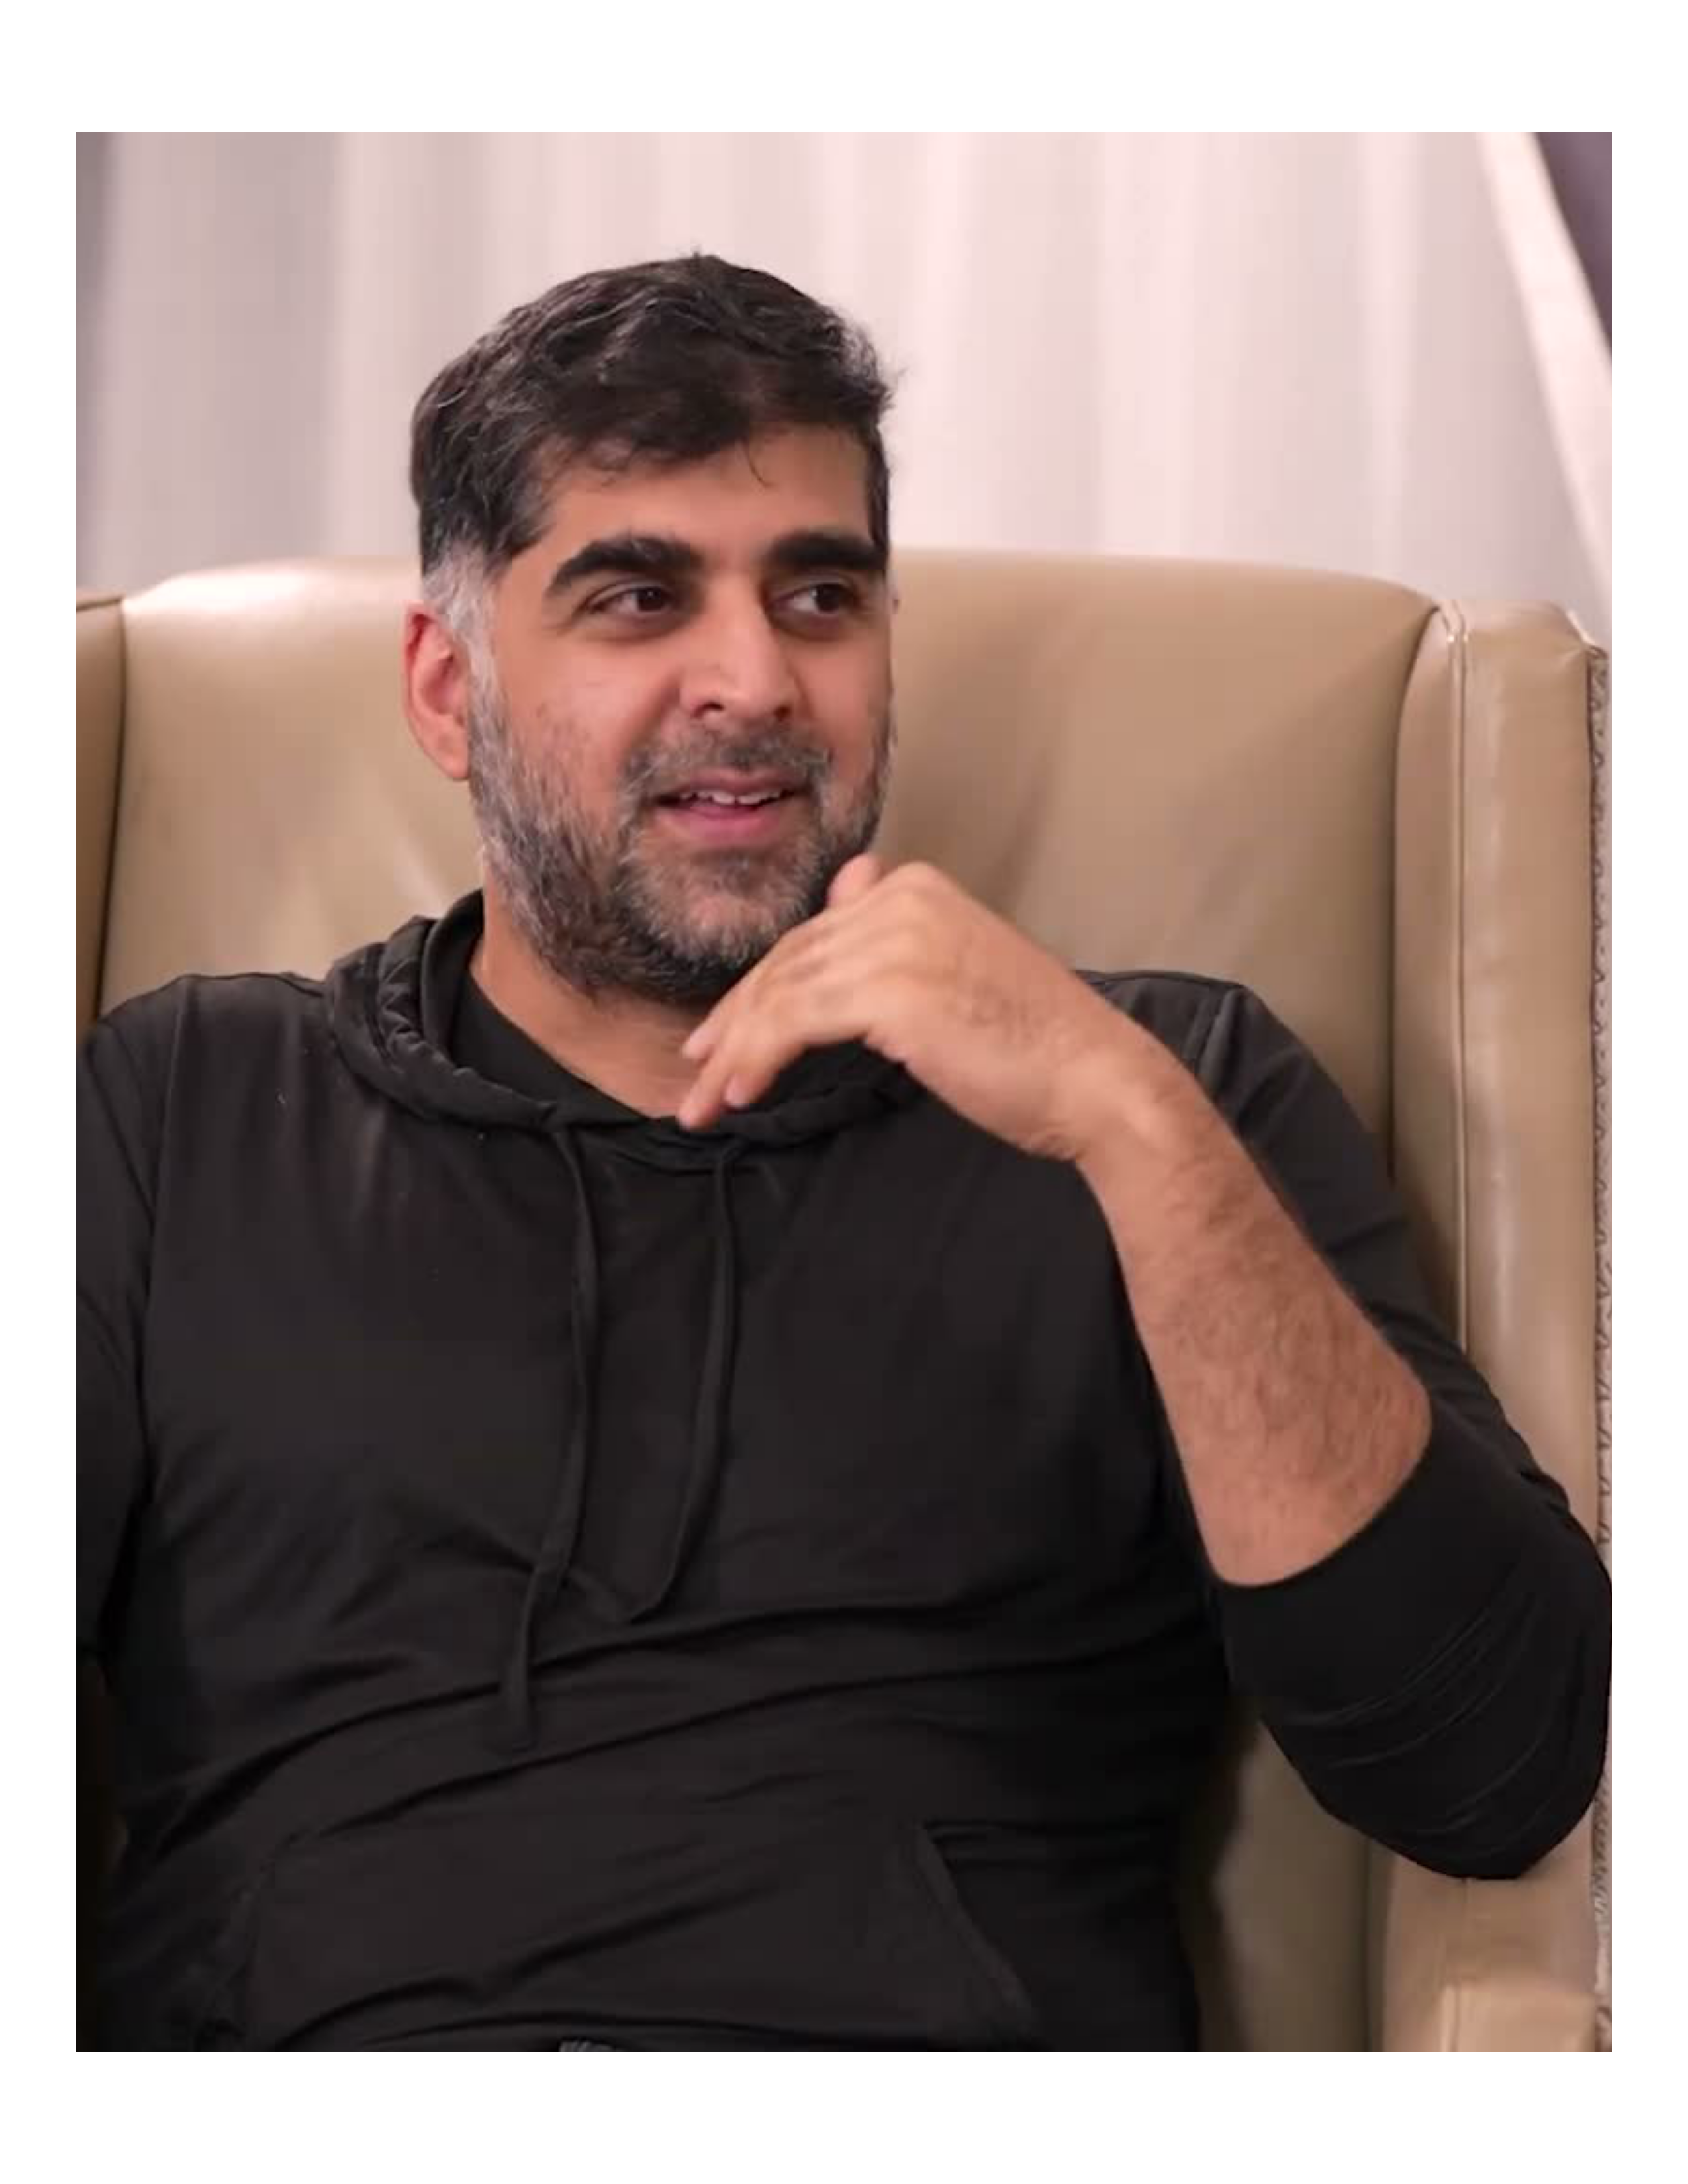
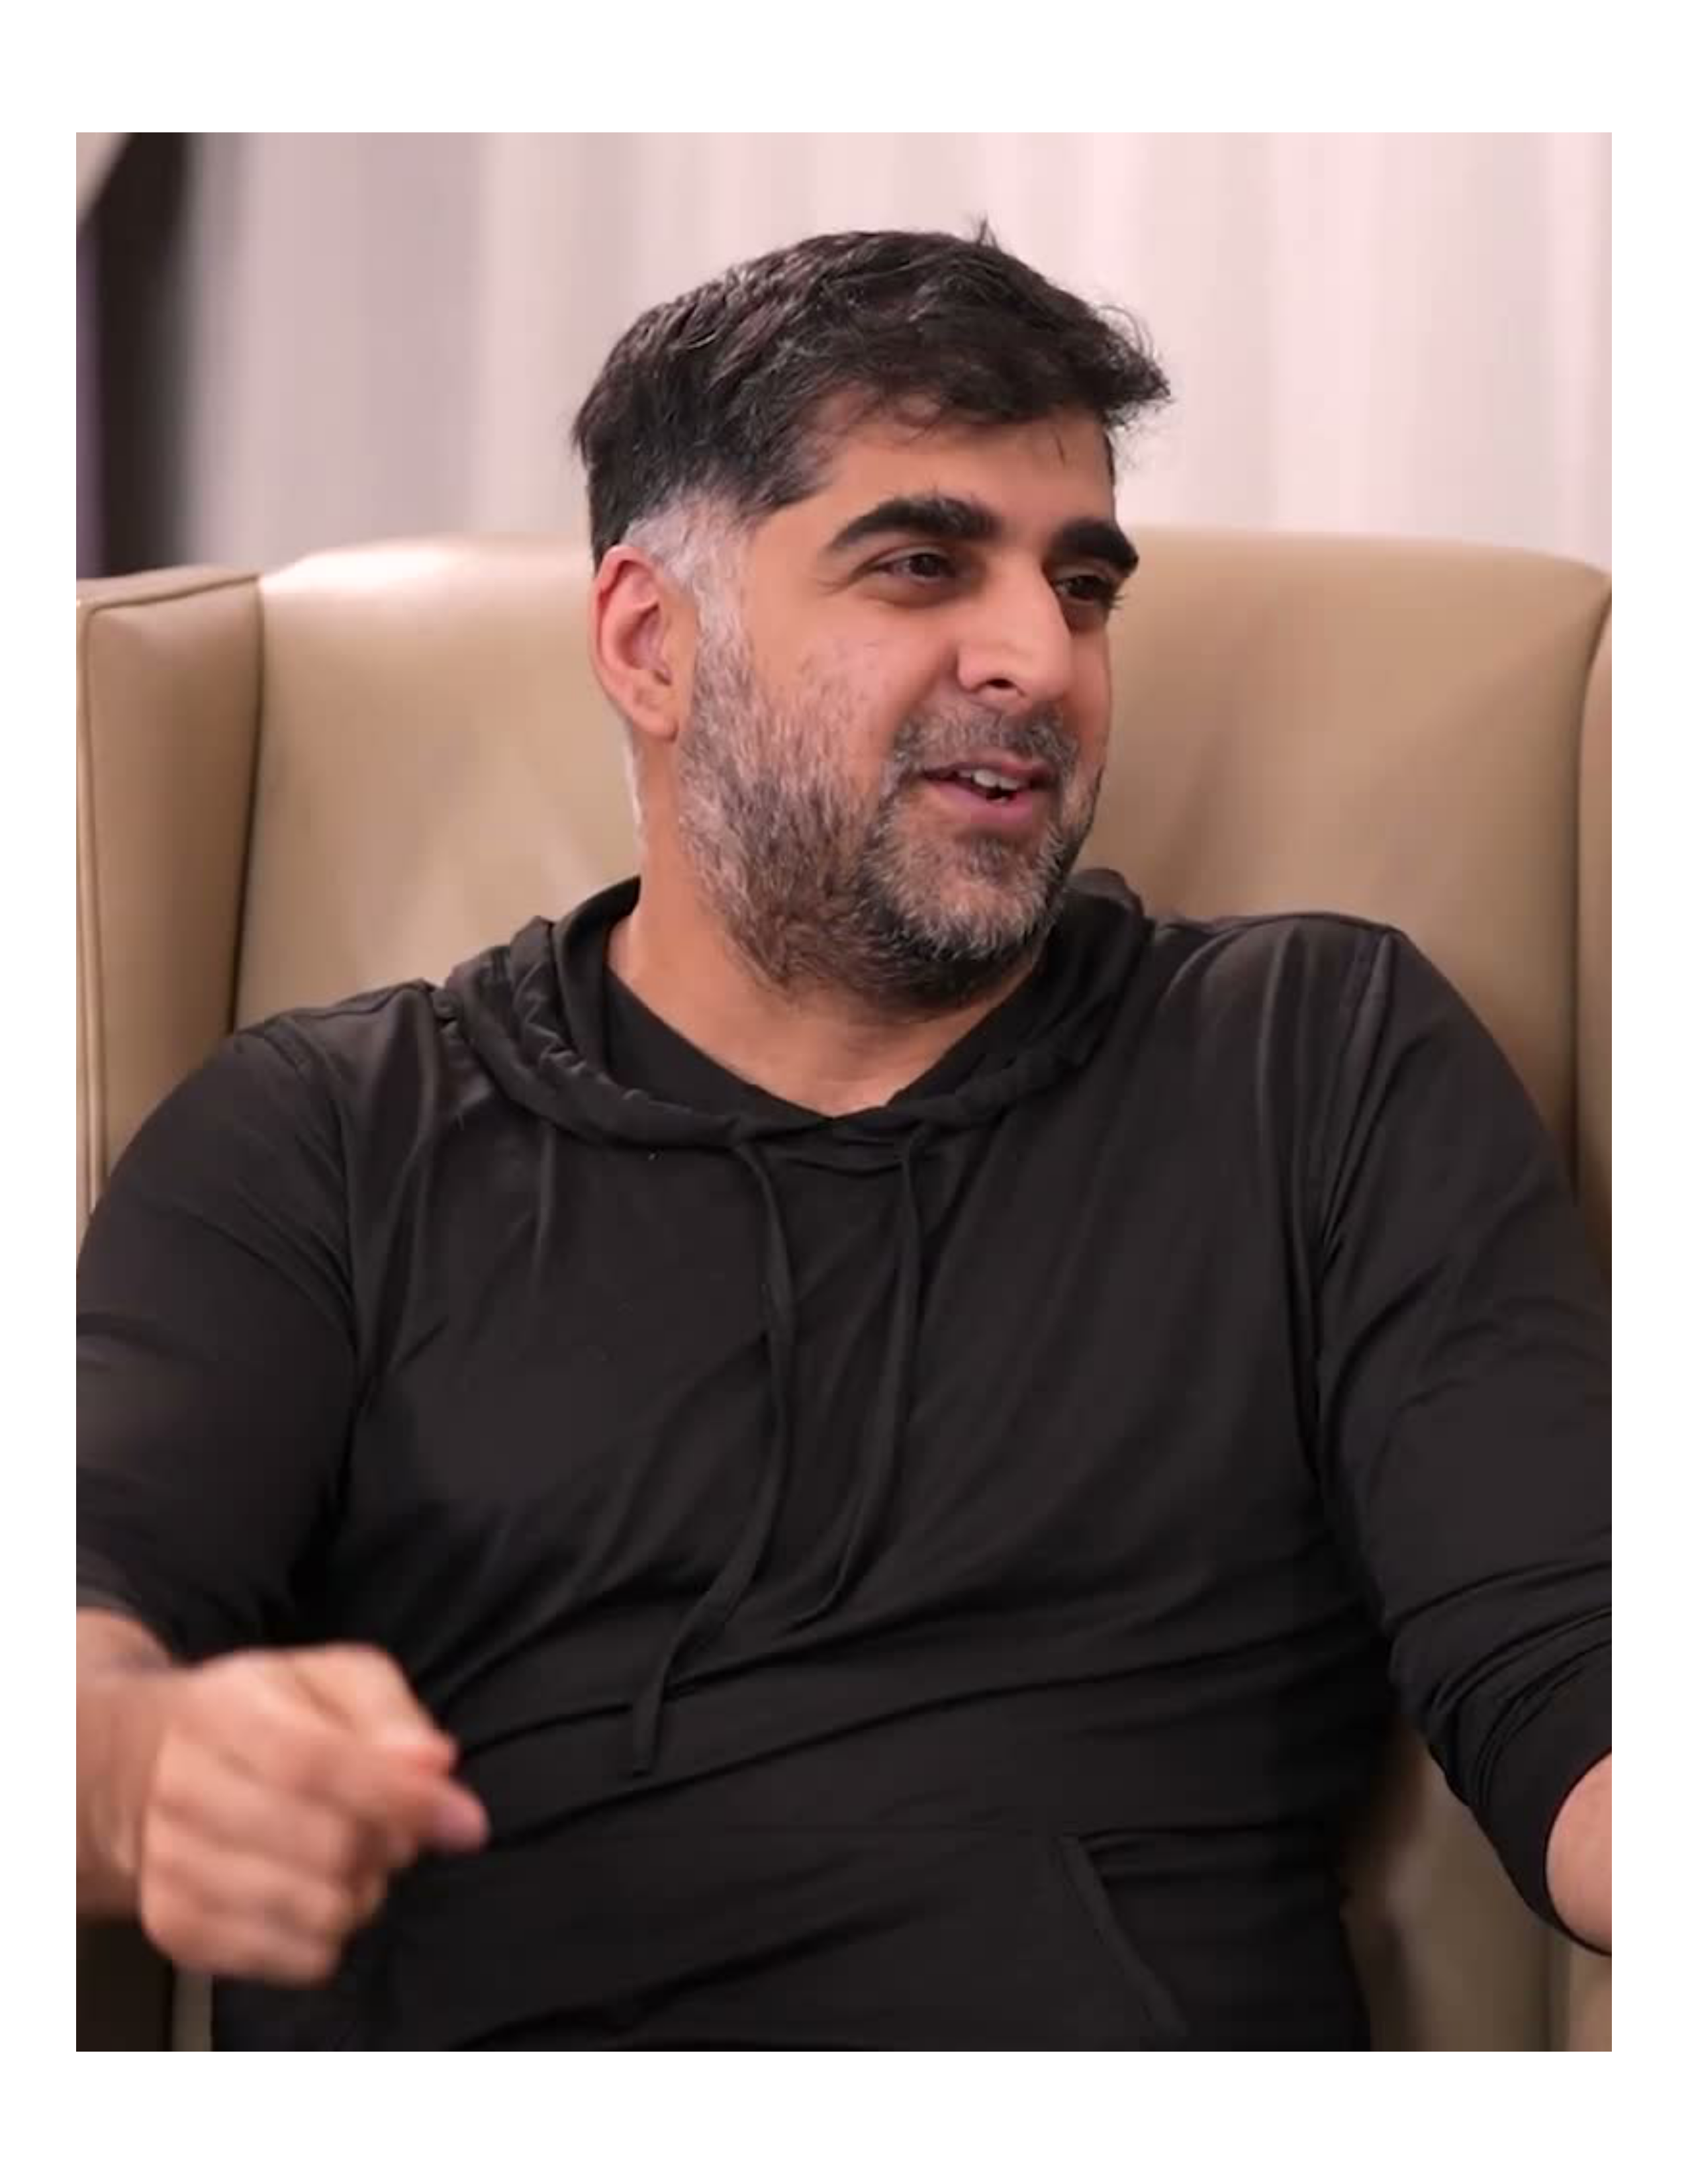
Session update

diff --git a/web-apps/hyperframes/sai-mqb-badge/mentors/print-mentor.html b/web-apps/hyperframes/sai-mqb-badge/mentors/print-mentor.html
@@ -14,7 +14,7 @@
   .hormozi img  { object-position:50% 20%; }
   .kan img      { object-position:67% 42%; transform:scale(1.42); transform-origin:67% 44%; }
   .cuban img    { object-position:50% 22%; }
-  .bloom img    { object-position:50% 14%; transform:scale(1.5); transform-origin:50% 18%; }
+  .bloom img    { object-position:50% 8%; transform:scale(1.22); transform-origin:50% 8%; }
   .sharran img  { object-position:50% 20%; }
   .puri img     { object-position:50% 20%; }
   .parr img     { object-position:50% 25%; }

diff --git a/web-apps/hyperframes/sai-mqb-badge/mentors/sheet.html b/web-apps/hyperframes/sai-mqb-badge/mentors/sheet.html
@@ -15,7 +15,7 @@
   .hormozi img  { object-position:50% 20%; }
   .kan img      { object-position:67% 42%; transform:scale(1.42); transform-origin:67% 44%; }
   .cuban img    { object-position:50% 22%; }
-  .bloom img    { object-position:50% 14%; transform:scale(1.5); transform-origin:50% 18%; }
+  .bloom img    { object-position:50% 8%; transform:scale(1.22); transform-origin:50% 8%; }
   .sharran img  { object-position:50% 20%; }
   .puri img     { object-position:50% 20%; }
   .parr img     { object-position:50% 25%; }